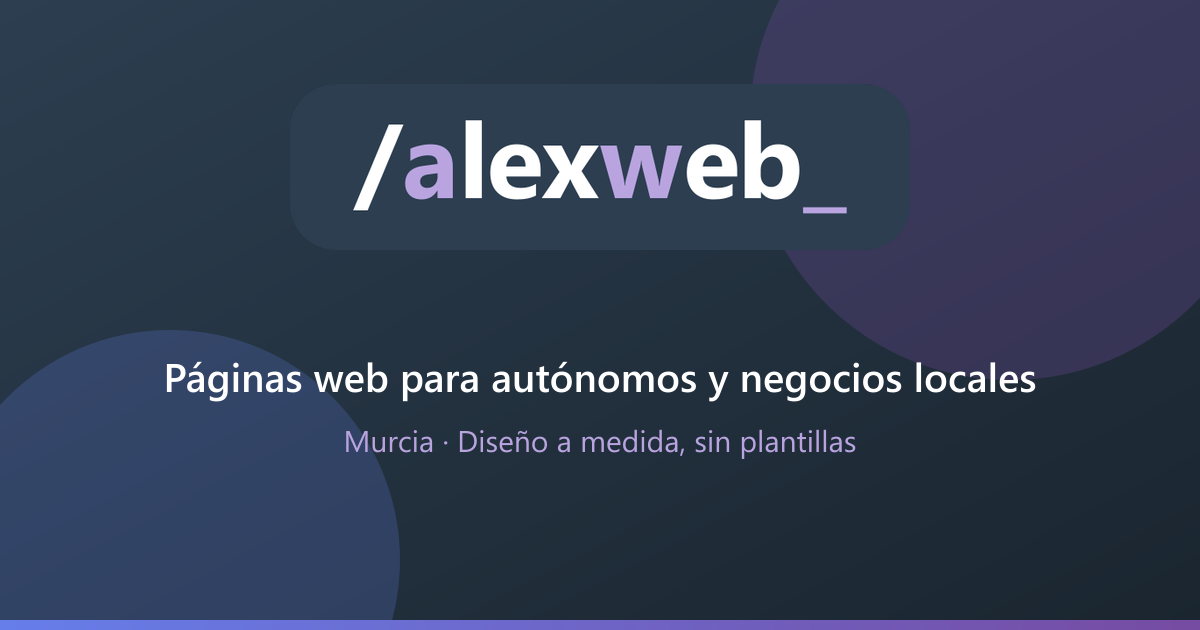
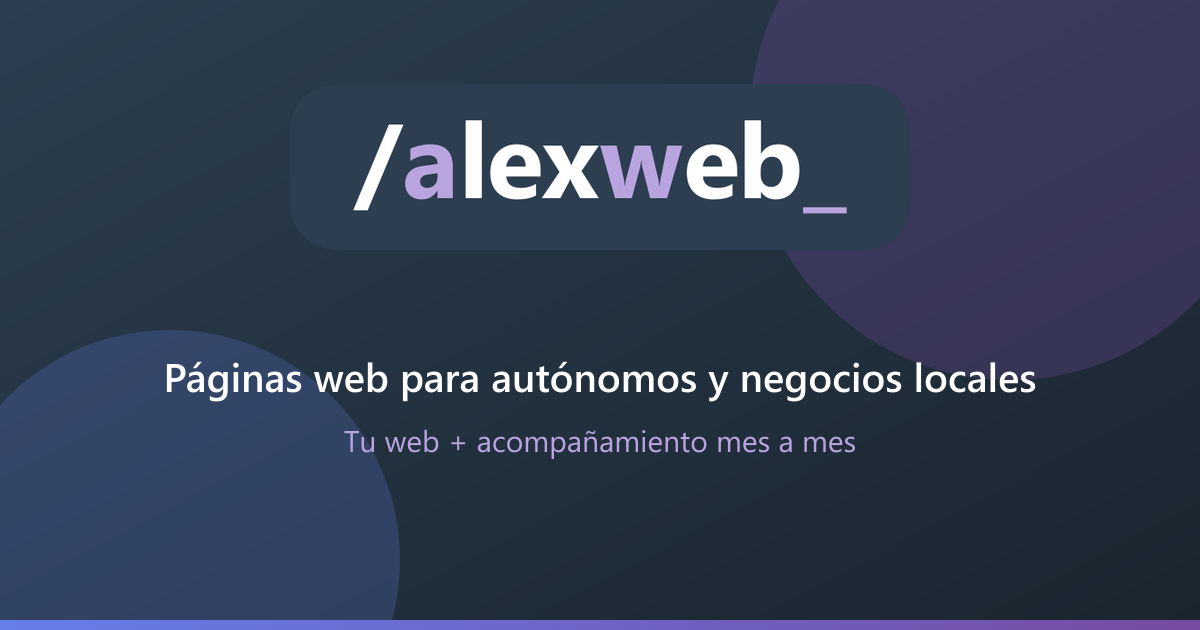
Quitar "sin plantillas" del resto del sitio y hablar de acompañamiento
Precios de Inicio y Servicios, meta description, chatbot, imagen OG y
README. El chatbot sigue diciendo que no se usa WordPress, Wix ni Shopify
si lo preguntan, pero lo principal pasa a ser el acompañamiento mensual.
Las landings de nicho se quedan como estaban.

Changed region(s): [[0.2775, 0.6635, 0.7092, 0.7238]]

diff --git a/src/components/ChatBot.jsx b/src/components/ChatBot.jsx
@@ -9,15 +9,17 @@ const EMAILJS_PUBLIC_KEY = import.meta.env.REACT_APP_EMAILJS_PUBLIC_KEY;
 
 const SYSTEM_PROMPT = `Eres el asistente virtual de alexweb. Alejandro Ferrández es un desarrollador web freelance que trabaja en remoto con clientes de toda España. Ofrece trato directo, sin intermediarios: quien contrata habla siempre con la persona que desarrolla su web. Responde de forma cercana, clara y sin tecnicismos innecesarios, ayudando al cliente a entender qué servicio le encaja y animándole a pedir presupuesto sin compromiso. Tu nombre es Alex Assistant.
 
+LO PRINCIPAL DEL SERVICIO: Alex no hace la web y desaparece, acompaña al negocio mes a mes. Eso es lo primero que hay que transmitir, por encima de la tecnologia. El acompañamiento mensual es: mantenimiento y alojamiento (hosting) incluidos en la cuota; el dominio lo gestiona y renueva Alex (el cliente solo paga su importe, unos 20€ al año); cambios en la web cada mes; respuesta a sus dudas el mismo dia (los cambios tienen el plazo de su plan); y asesoria en anuncios, reseñas de Google y aparecer en Google Maps. Si preguntan con que se hacen las webs, di que se programan a medida, no con WordPress, Wix ni Shopify, pero no lo uses como argumento principal.
+
 SERVICIOS Y PRECIOS (todos los precios que aparecen aquí son SIN IVA: al importe hay que sumarle el 21%. La clientela son negocios y autónomos, que se deducen ese IVA como gasto):
 
-LANDING PAGE (una sola página, para captar contactos). Las landings también se desarrollan desde cero y a medida, sin plantillas ni constructores tipo WordPress, Wix o Shopify:
+LANDING PAGE (una sola página, para captar contactos). Las landings se programan a medida, no con WordPress, Wix ni Shopify:
 - Landing Starter: desde 350€ — 1 sección larga y 3 secciones pequeñas, SEO y posicionamiento local, diseño responsive adaptado a cualquier tipo de pantalla, formulario de contacto, botones flotantes de WhatsApp y chat básico.
 - Landing Premium: desde 499€ — 8 secciones personalizadas (2 de ellas grandes), SEO y posicionamiento local o nacional, diseño responsive adaptado a cualquier tipo de pantalla, formulario de contacto, botones flotantes de WhatsApp y chat básico, e integración de Google Analytics y Google Search Console para llevar las estadísticas de la web.
 Las landings no anuncian plazo de entrega: si preguntan cuanto tarda una landing, di que depende del proyecto y que se concreta en el presupuesto, sin dar un numero de semanas.
 Los dos precios de landing son de partida: si el cliente pide mas secciones, mas contenido o funciones extra, el precio sube y se cierra en el presupuesto.
 
-SITIO WEB (tres tipos distintos, no son tallas del mismo producto). Todas las webs se desarrollan desde cero, sin plantillas ni constructores tipo WordPress, Wix o Shopify:
+SITIO WEB (tres tipos distintos, no son tallas del mismo producto). Todas las webs se programan a medida, no con WordPress, Wix ni Shopify:
 - Sitio Web Básico: 699€, precio cerrado — hasta 5 páginas, diseño responsive, SEO básico, formulario de contacto, Google Analytics. Entrega en 3-4 semanas. NO incluye tienda online ni blog. Se le puede añadir como complemento opcional un panel para que el cliente edite él mismo textos e imágenes, por 290€ aparte. Si a mitad del proyecto el cliente quiere añadir algo que no estaba en el presupuesto, se le dice antes lo que cuesta y decide él: nunca se cobra un extra sin que lo haya aprobado.
 - E-commerce / Tienda Online: desde 999€, el precio depende del número de productos del catálogo — todo lo del Básico y además carrito de compras, pasarela de pago segura, reservas y citas online, panel de gestión de productos y stock incluido, blog integrado y SEO avanzado. Entrega en 6-8 semanas. Cobrar una sesión o una reserva por internet es una pasarela de pago, y por eso las citas online entran en este nivel.
 - Proyecto a Medida (antes llamado "Sitio Web a Medida"): desde 1.499€, a negociar según alcance — todo lo anterior y además páginas y funciones sin límite, panel de administración personalizado, agenda de varios profesionales con Google Calendar, sincronización con proveedor o ERP, ChatBot con IA integrado y área privada de clientes. Entrega según proyecto. Es el más elegido.

diff --git a/src/components/Servicios.jsx b/src/components/Servicios.jsx
@@ -138,7 +138,7 @@ const TEMAS = [
   {
     ruta: '/diseno-web-para-pymes',
     titulo: 'Diseño web para pymes',
-    texto: 'Webs para pequeñas empresas y autónomos: precio cerrado, sin plantillas y trato directo.',
+    texto: 'Webs para pequeñas empresas y autónomos: precio cerrado, trato directo y acompañamiento mes a mes.',
     icono: (
       <IconoTema>
         <path d='M3 21h18' />
@@ -178,7 +178,7 @@ export const Servicios = () => {
           {/* La misma promesa que la fila de Sitios Web: las landings tampoco
               son plantillas. Sin esta linea, tenerla solo abajo se leia como
               que las landings si lo eran. */}
-          <p className='tipos-web-intro'>Cada landing se desarrolla desde cero y a medida para tu negocio, sin plantillas ni constructores.</p>
+          <p className='tipos-web-intro'>Cada landing se diseña para un objetivo concreto: que quien entre te contacte.</p>
           <div className='service-row-grid service-row-grid-2'>
 
             <div className='service-card'>
@@ -219,7 +219,7 @@ export const Servicios = () => {
         {/* ── Fila 2: Sitios Web ── */}
         <div className='service-group'>
           <div className='section-row-title'>Sitios Web</div>
-          <p className='tipos-web-intro'>Todas las webs se desarrollan desde cero, sin plantillas ni constructores.</p>
+          <p className='tipos-web-intro'>Cada web se adapta al objetivo de tu negocio y crece contigo mes a mes.</p>
           <div className='service-row-grid service-row-grid-3'>
 
             {/* Mismos tres tipos que el modal de la home: el Basico va sin

diff --git a/src/components/Inicio.jsx b/src/components/Inicio.jsx
@@ -1004,7 +1004,7 @@ export const Inicio = () => {
               <>
                 <h2 className='modal-titulo'>Elige tu Sitio Web</h2>
                 <p className='modal-subtitulo'>Tres tipos de web según lo que necesites</p>
-                <p className='tipos-web-intro'>Todas las webs se desarrollan desde cero, sin plantillas ni constructores.</p>
+                <p className='tipos-web-intro'>Cada web se adapta al objetivo de tu negocio y crece contigo mes a mes.</p>
                 <div className='modal-grid' ref={modalGridRef} key={modalPlanes}>
                   {/* El Basico va sin "Desde" porque su alcance esta cerrado
                       (5 paginas), y por eso lleva debajo la nota de que los
@@ -1114,7 +1114,7 @@ export const Inicio = () => {
               <>
                 <h2 className='modal-titulo'>Elige tu Landing Page</h2>
                 <p className='modal-subtitulo'>Dos variantes para adaptarse a lo que necesitas</p>
-                <p className='tipos-web-intro'>Cada landing se desarrolla desde cero y a medida para tu negocio, sin plantillas ni constructores.</p>
+                <p className='tipos-web-intro'>Cada landing se diseña para un objetivo concreto: que quien entre te contacte.</p>
                 <div className='modal-grid modal-grid-2' ref={modalGridRef} key={modalPlanes}>
                   <div className='modal-card'>
                     <h3>Starter</h3>

diff --git a/src/root.jsx b/src/root.jsx
@@ -166,7 +166,7 @@ export const meta = () =>
   construirMeta({
     titulo: 'Diseño web para pymes y autónomos desde 350€ | alexweb',
     descripcion:
-      'Diseño web para pymes y autónomos de toda España. Páginas web a medida, rápidas y sin plantillas. Landing pages desde 350€ y sitios web desde 699€. Presupuesto gratis.',
+      'Diseño web para pymes y autónomos de toda España. Webs para negocios con mantenimiento y asesoría mes a mes. Landing pages desde 350€ y sitios web desde 699€.',
     ruta: '/',
   })
 

diff --git a/src/paginas/inicio.jsx b/src/paginas/inicio.jsx
@@ -5,7 +5,7 @@ export const meta = () =>
   construirMeta({
     titulo: 'Diseño web para pymes y autónomos desde 350€ | alexweb',
     descripcion:
-      'Diseño web para pymes y autónomos de toda España. Páginas web a medida, rápidas y sin plantillas. Landing pages desde 350€ y sitios web desde 699€. Presupuesto gratis.',
+      'Diseño web para pymes y autónomos de toda España. Webs para negocios con mantenimiento y asesoría mes a mes. Landing pages desde 350€ y sitios web desde 699€.',
     ruta: '/',
   })
 

diff --git a/generate-og-image.js b/generate-og-image.js
@@ -40,7 +40,7 @@ const fondo = `
   <text x="600" y="452" text-anchor="middle"
         font-family="Segoe UI, Helvetica, Arial, sans-serif"
         font-size="30" font-weight="400" fill="#b9a4e0">
-    Murcia · Diseño a medida, sin plantillas
+    Tu web + acompañamiento mes a mes
   </text>
 </svg>`;
 

diff --git a/README.md b/README.md
@@ -1,6 +1,6 @@
 # /alexweb_
 
-Sitio web personal de **Alejandro Ferrández** — desarrollador web freelance especializado en pequeños autónomos y negocios locales. Desarrollado desde cero con React, sin plantillas.
+Sitio web personal de **Alejandro Ferrández** — desarrollador web freelance especializado en pequeños autónomos y negocios locales. Desarrollado con React y Vite.
 
 ---
 
